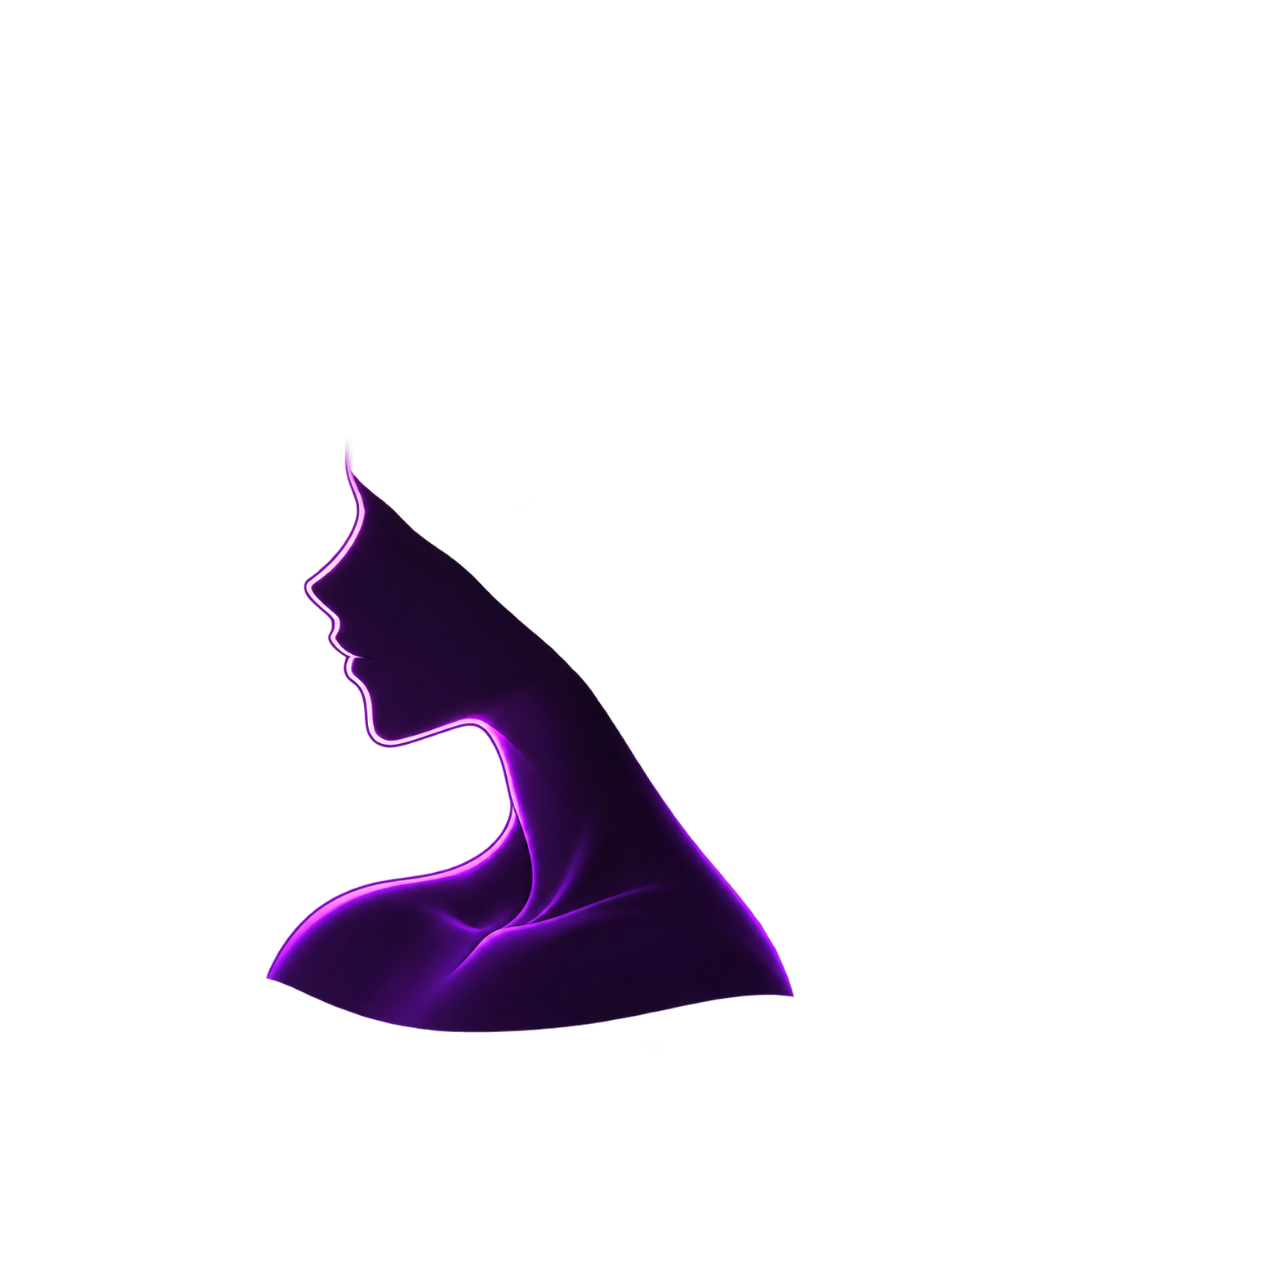
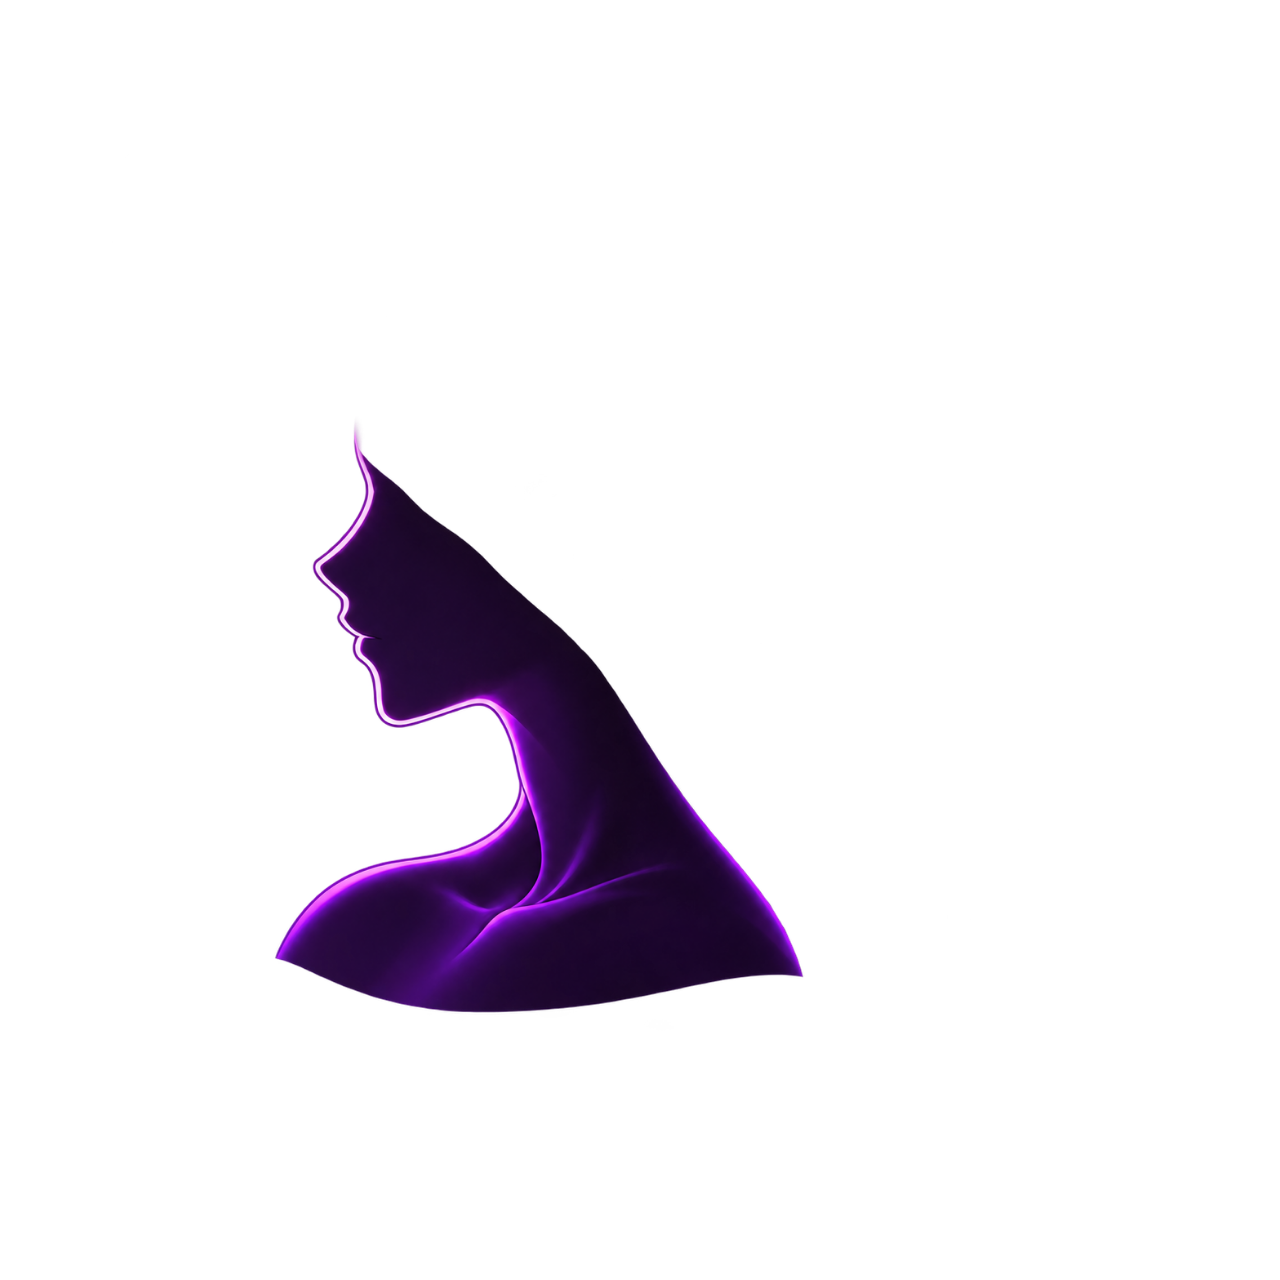
[#221] fix(emblem): register faces and retain active conversation identity

Changed region(s): [[0.1875, 0.3438, 0.625, 0.8125]]

diff --git a/libs/mission-control/src/lib/templates/desktop-experience-template.component.spec.ts b/libs/mission-control/src/lib/templates/desktop-experience-template.component.spec.ts
@@ -14,6 +14,32 @@ describe('DesktopExperienceTemplate', () => {
     await fixture.whenStable();
   });
 
+  it('retains assembled presence between foreground turns until clear, while suspension still wins', async () => {
+    expect(fixture.componentInstance.emblemPhase()).toBe('idle');
+    fixture.componentRef.setInput('conversationActive', true);
+    await fixture.whenStable();
+    expect(fixture.componentInstance.emblemPhase()).toBe('listening');
+    fixture.componentRef.setInput('state', {
+      ...initialState,
+      phase: 'suspended',
+    });
+    await fixture.whenStable();
+    expect(fixture.componentInstance.emblemPhase()).toBe('suspended');
+    fixture.componentRef.setInput('state', initialState);
+    await fixture.whenStable();
+    expect(fixture.componentInstance.emblemPhase()).toBe('listening');
+    fixture.componentRef.setInput('conversationActive', false);
+    await fixture.whenStable();
+    expect(fixture.componentInstance.emblemPhase()).toBe('idle');
+    fixture.componentRef.setInput('conversationActive', true);
+    fixture.componentRef.setInput('state', {
+      ...initialState,
+      phase: 'shutdown',
+    });
+    await fixture.whenStable();
+    expect(fixture.componentInstance.emblemPhase()).toBe('shutdown');
+  });
+
   it('assembles while waiting, restores presence for narration and removes waiting on suspension', async () => {
     fixture.componentRef.setInput('assistantWaiting', true);
     await fixture.whenStable();

diff --git a/libs/mission-control/desktop-experience/src/lib/templates/desktop-experience-template.component.ts b/libs/mission-control/desktop-experience/src/lib/templates/desktop-experience-template.component.ts
@@ -53,6 +53,7 @@ export class DesktopExperienceTemplate {
   readonly assistantUncertain = input(false);
   readonly assistantWaiting = input(false);
   readonly assistantNarrating = input(false);
+  readonly conversationActive = input(false);
   readonly solActive = input(false);
   readonly assistantActive = computed(
     () =>
@@ -60,7 +61,11 @@ export class DesktopExperienceTemplate {
       (this.assistantWaiting() || this.assistantNarrating()),
   );
   readonly emblemPhase = computed(() =>
-    this.assistantActive() ? ('listening' as const) : this.state().phase,
+    this.assistantActive() ||
+    (this.conversationActive() &&
+      !['suspended', 'shutdown'].includes(this.state().phase))
+      ? ('listening' as const)
+      : this.state().phase,
   );
   readonly retryIvy = output<void>();
   readonly cancelIvy = output<void>();

diff --git a/apps/stellar-desktop/src/app/app.component.html b/apps/stellar-desktop/src/app/app.component.html
@@ -20,6 +20,10 @@
     [assistantUncertain]="assistant.uncertain()"
     [assistantWaiting]="assistant.waiting() || voice.waiting()"
     [assistantNarrating]="voice.narrating()"
+    [solActive]="voice.composition().model === 'sol'"
+    [conversationActive]="
+      voice.composition().model === 'sol' || assistant.state().turn_id !== null
+    "
     [voiceStatus]="voice.state().status"
     [voiceMuted]="voice.state().muted"
     [voiceBusy]="voice.state().busy"

diff --git a/libs/ui/molecules/src/lib/molecules/emblem-motion-molecule.component.html b/libs/ui/molecules/src/lib/molecules/emblem-motion-molecule.component.html
@@ -83,7 +83,7 @@
           <circle class="sol-ring" cx="640" cy="640" r="510" />
           <path
             class="sol-eye"
-            d="M343 551 371 543 349 554Z M942 545 964 554 946 553Z"
+            d="M352 531 380 523 358 534Z M949 515 971 524 953 523Z"
           />
         </svg>
       }

diff --git a/apps/stellar-desktop/public/emblem/provenance.md b/apps/stellar-desktop/public/emblem/provenance.md
@@ -1,18 +1,18 @@
 # Embedded hybrid emblem
 
-Runtime files are byte-identical copies from [the production-v1 source pack](https://github.com/DanielssonThomas/Stellar/blob/develop/libs/stellar-emblem/production-v1/README.md). Issue #176 supplied the hybrid raster artwork and editable SVG geometry; #204 composes its four stars into the outer frame, adds three matching inner circles and assigns eleven uniformly spaced logical planes. #211 divides each existing body into three registered clips, yielding fifteen logical planes over the same eleven image files. The manifest retains production-candidate status. All files share a 1280 square origin and all assembled transforms remain zero. The six registered raster files are unchanged.
+Runtime files are byte-identical copies from [the production-v1 source pack](https://github.com/DanielssonThomas/Stellar/blob/develop/libs/stellar-emblem/production-v1/README.md). Issue #176 supplied the hybrid raster artwork and editable SVG geometry; #204 composes its four stars into the outer frame, adds three matching inner circles and assigns eleven uniformly spaced logical planes. #211 divides each existing body into three registered clips, yielding fifteen logical planes over the same eleven image files. The manifest retains production-candidate status. All files share a 1280 square origin and all assembled transforms remain zero. The #221 correction re-registers the two body exports inside their hair apertures; all six generated source cutouts remain unchanged, as do the other four exported raster images.
 
-The runtime payload is 2,744,096 bytes for the manifest and eleven unique registered image files on this checkout. Text newline conventions can change that count on another platform. Original references, generated masters, registration, history and previews remain in the source library. Imagegen supplied the raster artwork; this does not attribute it to the earlier Hermes SVG study. Native performance and physical microphones require separate verification.
+The exported runtime payload is 2,743,954 bytes for the manifest and eleven unique registered image files. Text newline conventions can change that count on another platform. Original references, generated masters, registration, history and previews remain in the source library. Imagegen supplied the original raster artwork; #221 only changes deterministic registration. Native performance and physical microphones require separate verification.
 
 Copy integrity was checked byte-for-byte against source files on this checkout. SHA-256 hashes below normalize JSON/SVG text to LF and preserve exact PNG bytes.
 
 | Runtime file               | SHA-256                                                          |
 | -------------------------- | ---------------------------------------------------------------- |
 | manifest.json              | 5d19f26cbeb4bd01eaa4cec1963eaaecb281087179b36b0c537128e3ef2dd992 |
-| layers/violet-body.png     | 0010606509668e59836ba19a07eb9cf8e99d46ae275fe2f2c2258e4f1f021127 |
+| layers/violet-body.png     | c77ca373d592c55ce75b96255d54fff58af82dbcb1c67d6fa786671016de3d04 |
 | layers/violet-hair.png     | 5ca76606302c0758dd55b520c5ce0cd751bda9e9b8c827ff2e78920c19938da3 |
 | layers/violet-ornament.png | 693fdcba33e399e0585d05c27ca3fac38b93bd66d4d61c0cd08ecdd0647d09ef |
-| layers/gold-body.png       | c722b70f806345416863141be4cb9201d38a94b5578e049859a461a180ee6dd7 |
+| layers/gold-body.png       | e4f0044e8b4a320b312c0071596cf0d91912136915cb322fec9dd96446aa3e9c |
 | layers/gold-hair.png       | 43b1bf105096cd2ac20f60050c8adb8e05d99dabeb65c2bb886330b661da3448 |
 | layers/gold-ornament.png   | f9c182b24634b242e03b4515b61ea68c8ffe325bd16f12f9c4c3130a634b8350 |
 | layers/outer-frame.svg     | 513a4316be96fe9cd4081aa7d02429728d6d3c206e3e504e2808194a8b169f4c |

diff --git a/libs/stellar-emblem/production-v1/README.md b/libs/stellar-emblem/production-v1/README.md
@@ -28,9 +28,9 @@ The original #176 independent image-capable review accepted the visual direction
 
 ## Registered face fragmentation (#211)
 
-The #221 candidate moves the gold ornament in front of its own hair in the exploded depth order. Previously its depth stayed behind the hair until every plane reached zero, at which point paint order abruptly made it visible. Both ornaments now retain the same front-to-back relationship during assembly. The complete registered character pixels and zero-pose geometry remain unchanged; this depth correction does not claim to fix the remaining purple face/hair registration or the extra gold facial contour. Those require separate source alignment review against the user's canonical reference.
+The #221 candidate moves the gold ornament in front of its own hair in the exploded depth order. Previously its depth stayed behind the hair until every plane reached zero, at which point paint order abruptly made it visible. Both ornaments now retain the same front-to-back relationship during assembly. It also raises the violet body by 20 source units and moves it right by 9, and raises the gold body by 30 units and moves it right by 7. This re-registers the untouched source cutouts inside their hair apertures and aligns the gold nose with the existing hair contour. The two body exports and composed previews change; the six original generated sources and all other exported images retain their original pixels. Every assembled transform remains zero. Native evidence and comparison with the supplied canonical reference determine visual acceptance, not the zero-pose invariant alone.
 
-The emblem molecule also accepts an explicit `solActive` presentation input. Once assembly actually settles, it reveals a single red circle concentric with the existing outer gold circle and two narrow eye glints; the effect scales with the emblem, fades on removal and respects reduced motion. This input does not select or verify a model. The native session adapter must supply that confirmed intent during integration; current app startup leaves the input false.
+The emblem molecule also accepts an explicit `solActive` presentation input. Once assembly actually settles, it reveals a single red circle concentric with the existing outer gold circle and two narrow eye glints; the effect scales with the emblem, fades on removal and respects reduced motion. The app binds this input to the restored persistent voice composition model, including explicit Sol drafting and confirmed reset to Terra. This input communicates selected intent and does not itself verify the actual inference provider or model.
 
 The unchanged body images are partitioned at source rows512 and640 into three disjoint full-width regions. No independent idle plane retains a whole face. Optional validated integer clip rectangles preserve backwards compatibility for older unclipped manifests. All fifteen planes use equal240-source-unit depth spacing, while the camera, ring rotation and1000ms durations remain unchanged.
 
